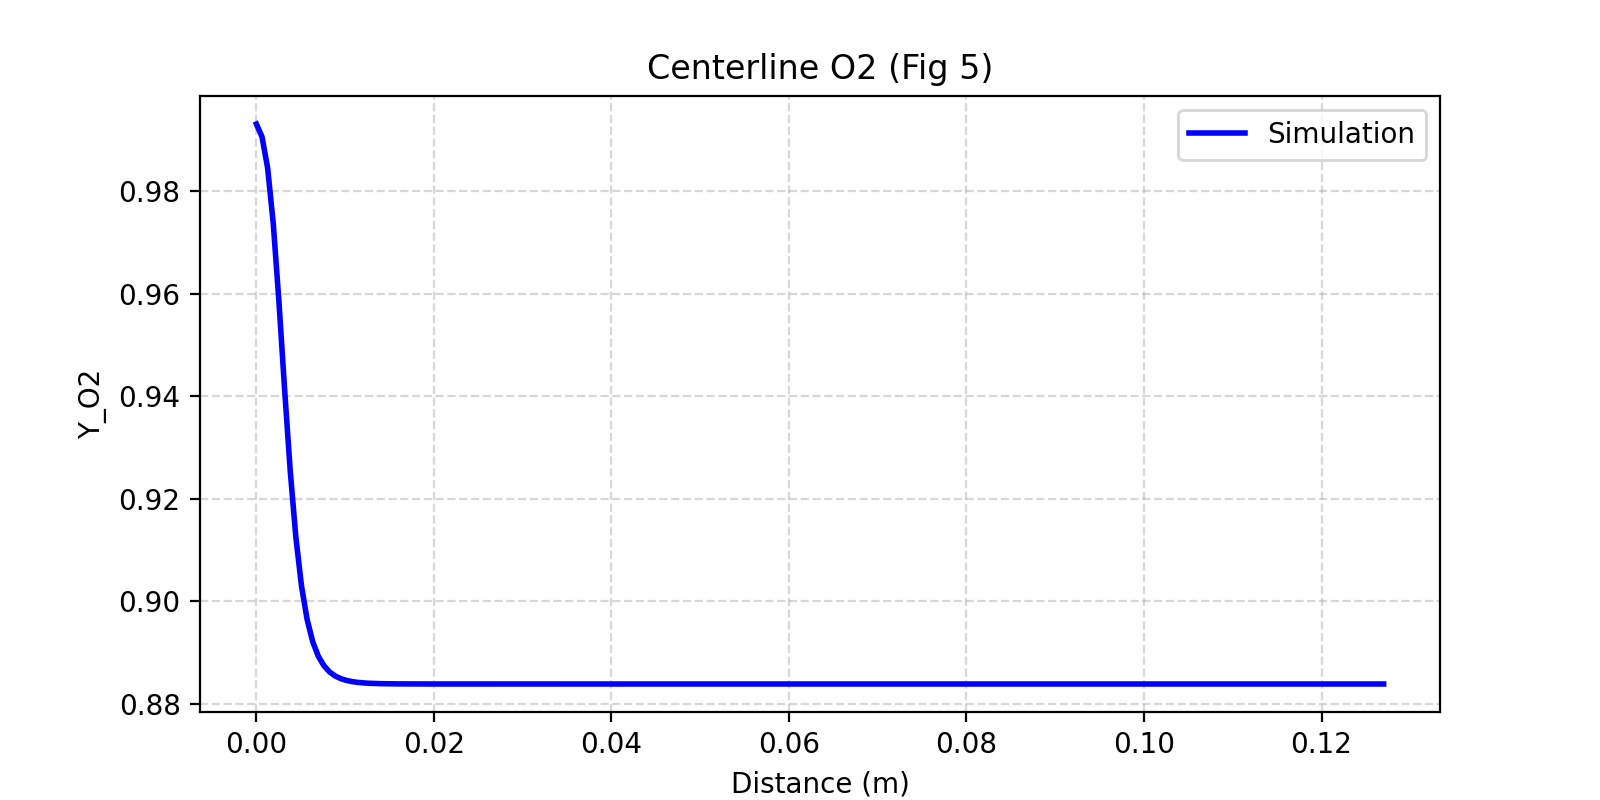
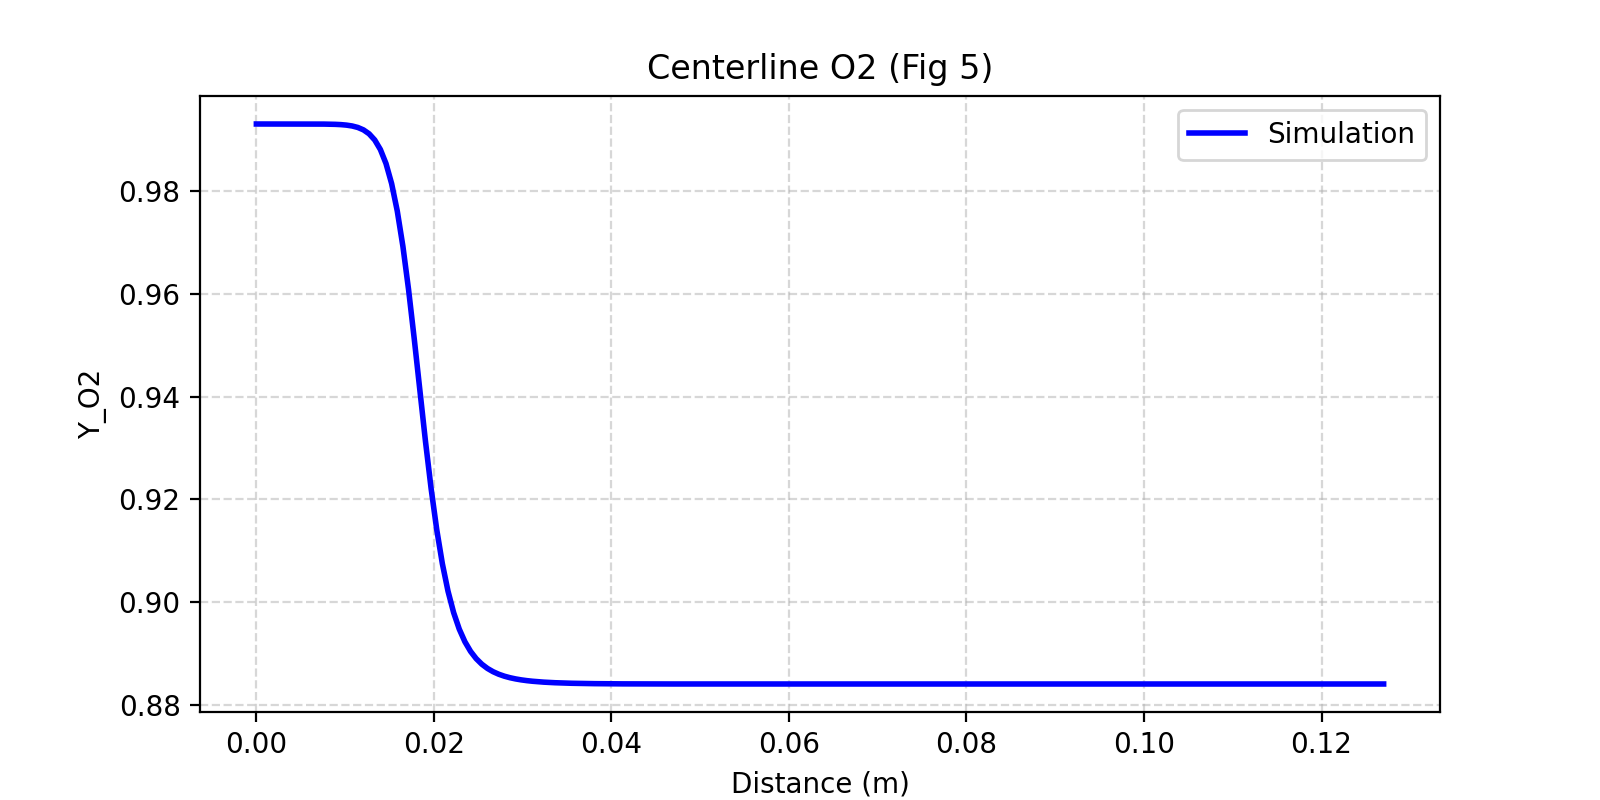
finished nasa validation and plotted plots at frame 9.

diff --git a/nasa_shocktube/plot_results.py b/nasa_shocktube/plot_results.py
@@ -2,6 +2,7 @@ import numpy as np
 import matplotlib.pyplot as plt
 import glob
 import os
+import sys
 import matplotlib.animation as animation
 from pathlib import Path
 
@@ -30,7 +31,7 @@ def load_dat(filepath):
     except Exception as e:
         return None
 
-# --- 1. Contour Plotter (Static images retain colorbars) ---
+# --- 1. Contour Plotter ---
 def plot_contour(data, var_name, title, filename, cmap='jet'):
     if var_name not in VAR_MAP: return
     idx = VAR_MAP[var_name]
@@ -111,7 +112,9 @@ def plot_centerline_validation(data, filename):
 # --- 4. Convergence History ---
 def plot_convergence():
     hist_file = DATA_DIR / 'history.dat'
-    if not hist_file.exists(): return
+    if not hist_file.exists(): 
+        print("Warning: history.dat not found.")
+        return
 
     try:
         try: hist = np.loadtxt(hist_file, skiprows=1, delimiter=',')
@@ -128,9 +131,10 @@ def plot_convergence():
         plt.savefig(OUTPUT_DIR / 'fig2_convergence.png', dpi=200)
         plt.close()
         print("Generated: fig2_convergence.png")
-    except: pass
+    except Exception as e:
+        print(f"Failed to plot convergence: {e}")
 
-# --- 5. Movie Maker (NO COLORBAR) ---
+# --- 5. Movie Maker (No Colorbar, Fixed Limits) ---
 def get_global_limits(file_list, var_name):
     idx = VAR_MAP[var_name]
     g_min, g_max = 1e20, -1e20
@@ -155,13 +159,11 @@ def make_movie_fixed(file_list, var_name, filename, cmap='jet'):
     fig, ax = plt.subplots(figsize=(10, 3))
     idx = VAR_MAP[var_name]
     
-    # Initial Plot
+    # Plot without colorbar
     X = data0[:, :, 0]
     Y = data0[:, :, 1]
     Z = data0[:, :, idx]
-    
-    # Note: No colorbar call here
-    cf = ax.contourf(X, Y, Z, levels=50, cmap=cmap, vmin=vmin, vmax=vmax)
+    ax.contourf(X, Y, Z, levels=50, cmap=cmap, vmin=vmin, vmax=vmax)
     ax.set_aspect('equal')
     ax.set_xlabel("x (m)")
     ax.set_ylabel("y (m)")
@@ -186,13 +188,31 @@ if not files:
     print("No data found.")
     exit()
 
-last_frame = files[-1]
-data = load_dat(last_frame)
+# --- A. STATIC PLOTS (Selectable Frame) ---
+target_file = files[-1] # Default: Last Frame
+if len(sys.argv) > 1:
+    arg = sys.argv[1]
+    # Check if integer index
+    try:
+        idx = int(arg)
+        potential = DATA_DIR / f"flow_{idx:03d}.dat"
+        if potential.exists():
+            target_file = str(potential)
+        else:
+            print(f"Warning: Frame {idx} not found. Using last frame.")
+    except ValueError:
+        # Check if direct filename
+        potential = DATA_DIR / arg
+        if potential.exists():
+            target_file = str(potential)
+        else:
+            print(f"Warning: File {arg} not found. Using last frame.")
+
+print(f"--- Plotting Static Validation (Frame: {os.path.basename(str(target_file))}) ---")
+data = load_dat(target_file)
 
 if data is not None:
-    print("--- Generating NASA Validation Plots ---")
-    
-    # 1. Contours (Figs 9-17)
+    # [cite_start]1. Contours (Figs 9-17) [cite: 651, 661, 667, 677, 683, 693, 699, 709, 716]
     plot_contour(data, 'Mach', 'Mach Number (Fig 9)', 'fig9_mach.png')
     plot_contour(data, 'P', 'Static Pressure (Fig 10)', 'fig10_pressure.png')
     plot_contour(data, 'T', 'Static Temperature (Fig 11)', 'fig11_temp.png')
@@ -203,21 +223,21 @@ if data is not None:
     plot_contour(data, 'Y_O', 'O Mass Fraction (Fig 16)', 'fig16_o.png', cmap='plasma')
     plot_contour(data, 'Y_H', 'H Mass Fraction (Fig 17)', 'fig17_h.png', cmap='plasma')
 
-    # 2. Centerlines (Figs 4, 5, 7, 8)
+    # [cite_start]2. Centerlines (Figs 4, 5, 7, 8) [cite: 558, 572, 622, 645]
     plot_centerline(data, 'T', 'Centerline Temperature (Fig 7)', 'fig7_center_temp.png')
     plot_centerline(data, 'P', 'Centerline Pressure (Fig 8)', 'fig8_center_p.png')
     plot_centerline(data, 'Y_H2O', 'Centerline H2O (Fig 4)', 'fig4_center_h2o.png')
     plot_centerline(data, 'Y_O2', 'Centerline O2 (Fig 5)', 'fig5_center_o2.png')
     
-    # 3. Special Validation (Fig 6 Comparison)
+    # [cite_start]3. Special Validation (Fig 6 Comparison) [cite: 609]
     plot_centerline_validation(data, 'fig6_validation.png')
 
-# 4. Convergence
+# [cite_start]4. Convergence History [cite: 501]
 plot_convergence()
 
-# 5. Movies
-print("--- Generating Unsteady Animations ---")
-movie_files = files[::1] 
+# 5. Movies (Always Full History)
+print("--- Generating Unsteady Animations (Full History) ---")
+movie_files = files 
 
 # Physics
 make_movie_fixed(movie_files, 'T',    'movie_T.mp4',    cmap='jet')
